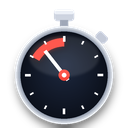
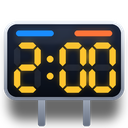
Two-Minute Drill: its badge is a scoreboard with 2:00 on the clock
Claude-Session: https://claude.ai/code/session_01AH8E1dTJHFZcRinqqkpkzG

diff --git a/sw.js b/sw.js
@@ -7,7 +7,7 @@
 // A slow request falls back to whatever is cached under its path (from the previous worker too), so data whose
 // format changes gets a new file name rather than new content under the old one (data/puzzles-v4.json: see
 // js/core/daily.js).
-const CACHE = 'gg-v123';
+const CACHE = 'gg-v124';
 const CORE = ['ui', 'data', 'daily', 'fire', 'week', 'nfl', 'stats', 'motw', 'press', 'checks', 'checks-stats', 'checks-pickem', 'checks-press', 'checks-seventeen', 'checks-drill', 'lay', 'plays', 'laytrack', 'seventeen', 'drill-sim', 'drill'];
 // The six tab roots are puzzles, pickem, rivals (Matchup), league, moves (Draft) and lay (The Lay).
 const VIEWS = ['welcome', 'puzzles', 'board', 'you', 'sharecard', 'results', 'run', 'college', 'silhouette', 'mystery', 'journey', 'grid', 'picker',

diff --git a/tools/seventeen/badges.py b/tools/seventeen/badges.py
@@ -50,47 +50,58 @@ for ch in '17-0':
 d.rectangle((13, 1, 16, 4), fill=INK); d.rectangle((14, 2, 15, 4), fill=TRIM)                  # top light
 finish(im, 'seventeen')
 
-# ---- Two-Minute Drill: not pixel art (its game has a modern look). A stopwatch drawn smooth at 4x and scaled down: a
-# dark face, its last two minutes lit red, the hand on them, a silver case and buttons, a soft shadow.
+# ---- Two-Minute Drill: not pixel art (its game has a modern look). A stadium scoreboard drawn smooth at 4x and scaled
+# down: a dark board in a silver frame on two posts, the teams' lights across the top, and the clock at 2:00 in glowing
+# seven-segment digits.
 from PIL import ImageFilter
-import math
 S = 512
+L, T, R, B = 16, 84, 496, 400                                                                  # the board's frame
+def layer():
+    im = Image.new('RGBA', (S, S), (0, 0, 0, 0)); return im, ImageDraw.Draw(im)
+def vgrad(box, top, bottom, radius):
+    """A rounded box filled top to bottom from one colour to another."""
+    x0, y0, x1, y1 = box
+    g = Image.new('RGBA', (S, S), (0, 0, 0, 0)); gd = ImageDraw.Draw(g)
+    for y in range(y0, y1 + 1):
+        t = (y - y0) / max(1, y1 - y0)
+        gd.line((x0, y, x1, y), fill=tuple(int(a + (b - a) * t) for a, b in zip(top, bottom)) + (255,))
+    m = Image.new('L', (S, S), 0); ImageDraw.Draw(m).rounded_rectangle(box, radius, fill=255)
+    out = Image.new('RGBA', (S, S), (0, 0, 0, 0)); out.paste(g, (0, 0), m)
+    return out
 im = Image.new('RGBA', (S, S), (0, 0, 0, 0))
-sh = Image.new('RGBA', (S, S), (0, 0, 0, 0)); ImageDraw.Draw(sh).ellipse((70, 132, 450, 512), fill=(0, 0, 0, 150))
-im.alpha_composite(sh.filter(ImageFilter.GaussianBlur(18)))                                   # shadow
-d = ImageDraw.Draw(im)
-cx, cy, R = 256, 300, 196
-d.rounded_rectangle((216, 38, 296, 84), 14, fill=(206, 212, 224, 255))                        # crown
-d.rounded_rectangle((216, 38, 296, 56), 14, fill=(236, 240, 247, 255))
-d.rectangle((240, 80, 272, 112), fill=(160, 168, 184, 255))                                   # stem
-bx, by = cx + int((R + 18) * math.cos(math.radians(-45))), cy + int((R + 18) * math.sin(math.radians(-45)))
-btn = Image.new('RGBA', (S, S), (0, 0, 0, 0)); ImageDraw.Draw(btn).rounded_rectangle((bx - 24, by - 16, bx + 24, by + 16), 10, fill=(196, 202, 216, 255))
-im.alpha_composite(btn.rotate(-45, center=(bx, by)))                                          # side button
-for k in range(R, R - 22, -1):                                                                 # silver case, lit on top
-    t = (R - k) / 22
-    c = tuple(int(a + (b - a) * t) for a, b in zip((244, 247, 252), (138, 148, 166))) + (255,)
-    d.ellipse((cx - k, cy - k, cx + k, cy + k), fill=c)
-r = R - 22
-for k in range(r, 0, -2):                                                                      # the face: navy, lighter at the top
-    t = k / r
-    c = tuple(int(a + (b - a) * t) for a, b in zip((30, 41, 64), (12, 17, 28))) + (255,)
-    d.ellipse((cx - k, cy - k - (r - k) * 0.25, cx + k, cy + k - (r - k) * 0.25), fill=c)
-glow = Image.new('RGBA', (S, S), (0, 0, 0, 0)); g = ImageDraw.Draw(glow)
-box = (cx - r + 26, cy - r + 26, cx + r - 26, cy + r - 26)
-g.arc(box, -90 - 60, -90, fill=(255, 69, 58, 255), width=34)                                   # the last two minutes
+sh, d = layer(); d.rounded_rectangle((36, 120, 476, 480), 48, fill=(0, 0, 0, 150))
+im.alpha_composite(sh.filter(ImageFilter.GaussianBlur(20)))                                   # shadow
+for x in (152, 332):                                                                           # posts
+    im.alpha_composite(vgrad((x, 360, x + 28, 504), (176, 185, 200), (104, 113, 130), 8))
+im.alpha_composite(vgrad((L, T, R, B), (238, 242, 248), (122, 132, 150), 50))                  # silver frame, lit on top
+im.alpha_composite(vgrad((L + 13, T + 13, R - 13, B - 13), (30, 40, 62), (8, 12, 20), 38))     # the board
+glow, g = layer()
+off, o = layer()
+for (x0, x1), col in (((64, 214), (10, 132, 255)), ((298, 448), (255, 107, 44))):             # the teams' lights
+    g.rounded_rectangle((x0, 122, x1, 144), 11, fill=col + (255,))
+AMBER, DIM = (255, 196, 46, 255), (255, 255, 255, 20)
+def seg(x0, y0, x1, y1, t):
+    """A segment from (x0, y0) to (x1, y1), horizontal or vertical, pointed at both ends."""
+    h = t / 2
+    if y0 == y1:
+        return [(x0, y0), (x0 + h, y0 - h), (x1 - h, y0 - h), (x1, y0), (x1 - h, y0 + h), (x0 + h, y0 + h)]
+    return [(x0, y0), (x0 + h, y0 + h), (x0 + h, y1 - h), (x0, y1), (x0 - h, y1 - h), (x0 - h, y0 + h)]
+def digit(x, y, n, w=82, hgt=176, t=24, gap=6):
+    m = y + hgt / 2
+    segs = {
+        'a': (x + gap, y, x + w - gap, y), 'd': (x + gap, y + hgt, x + w - gap, y + hgt), 'g': (x + gap, m, x + w - gap, m),
+        'f': (x, y + gap, x, m - gap), 'b': (x + w, y + gap, x + w, m - gap),
+        'e': (x, m + gap, x, y + hgt - gap), 'c': (x + w, m + gap, x + w, y + hgt - gap)}
+    for k, box in segs.items():
+        (g if k in {'2': 'abged', '0': 'abcdef'}[n] else o).polygon(seg(*box, t), fill=AMBER if k in {'2': 'abged', '0': 'abcdef'}[n] else DIM)
+y = 182                                                                                        # 2 : 0 0, centred
+digit(68, y, '2'); digit(250, y, '0'); digit(368, y, '0')
+for cy in (y + 54, y + 122):                                                                   # the colon
+    g.ellipse((200 - 13, cy - 13, 200 + 13, cy + 13), fill=AMBER)
+im.alpha_composite(off)
 im.alpha_composite(glow.filter(ImageFilter.GaussianBlur(14)))
 im.alpha_composite(glow)
-for a in range(0, 360, 30):                                                                    # ticks
-    rad = math.radians(a - 90)
-    r0, r1 = r - 18, r - (40 if a % 90 == 0 else 32)
-    d.line((cx + r0 * math.cos(rad), cy + r0 * math.sin(rad), cx + r1 * math.cos(rad), cy + r1 * math.sin(rad)),
-           fill=(255, 255, 255, 230 if a % 90 == 0 else 150), width=10 if a % 90 == 0 else 7)
-ha = math.radians(-90 - 38)                                                                    # the hand, in the red
-d.line((cx - 26 * math.cos(ha), cy - 26 * math.sin(ha), cx + (r - 52) * math.cos(ha), cy + (r - 52) * math.sin(ha)), fill=(255, 255, 255, 255), width=14)
-d.ellipse((cx - 22, cy - 22, cx + 22, cy + 22), fill=(255, 69, 58, 255))
-d.ellipse((cx - 9, cy - 9, cx + 9, cy + 9), fill=(255, 255, 255, 255))
-hl = Image.new('RGBA', (S, S), (0, 0, 0, 0))                                                   # a soft glass highlight
-ImageDraw.Draw(hl).ellipse((cx - r + 30, cy - r + 14, cx + r - 30, cy + 10), fill=(255, 255, 255, 26))
-im.alpha_composite(hl.filter(ImageFilter.GaussianBlur(6)))
+hl, d = layer(); d.rounded_rectangle((L + 34, T + 20, R - 34, T + 96), 28, fill=(255, 255, 255, 16))
+im.alpha_composite(hl.filter(ImageFilter.GaussianBlur(8)))                                     # a soft glass highlight
 im.resize((128, 128), Image.LANCZOS).save(f'{OUT}/drill.webp', 'WEBP', lossless=True)
 print('wrote img/puzzles.webp, img/seventeen.webp, img/drill.webp')
